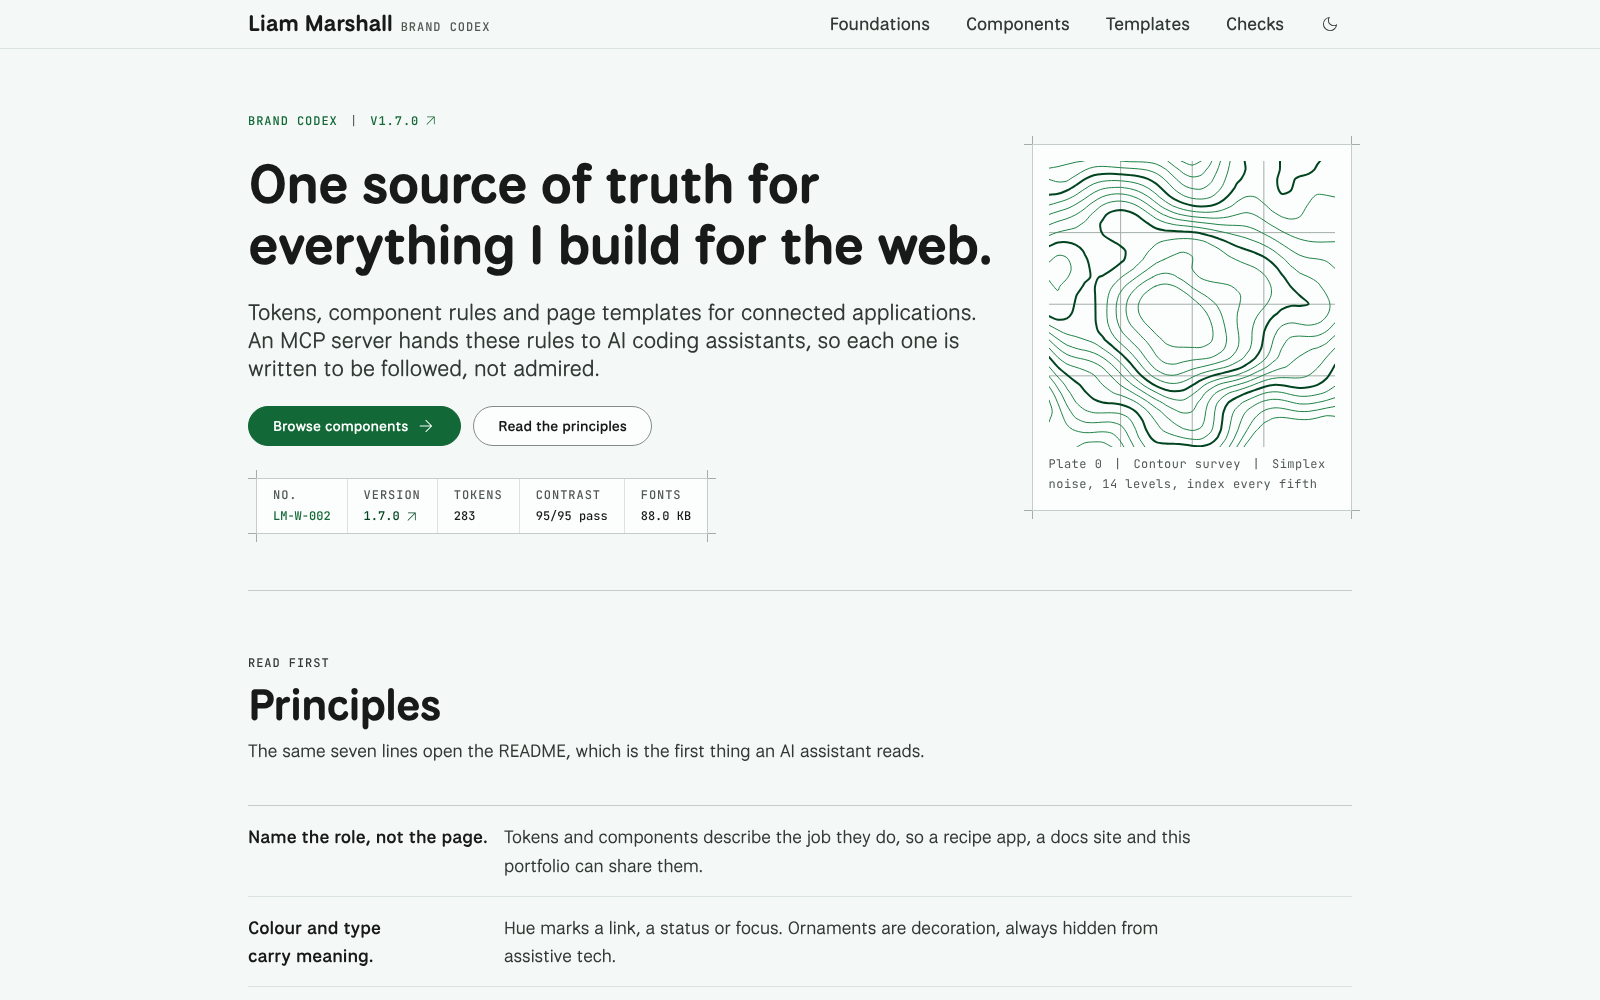
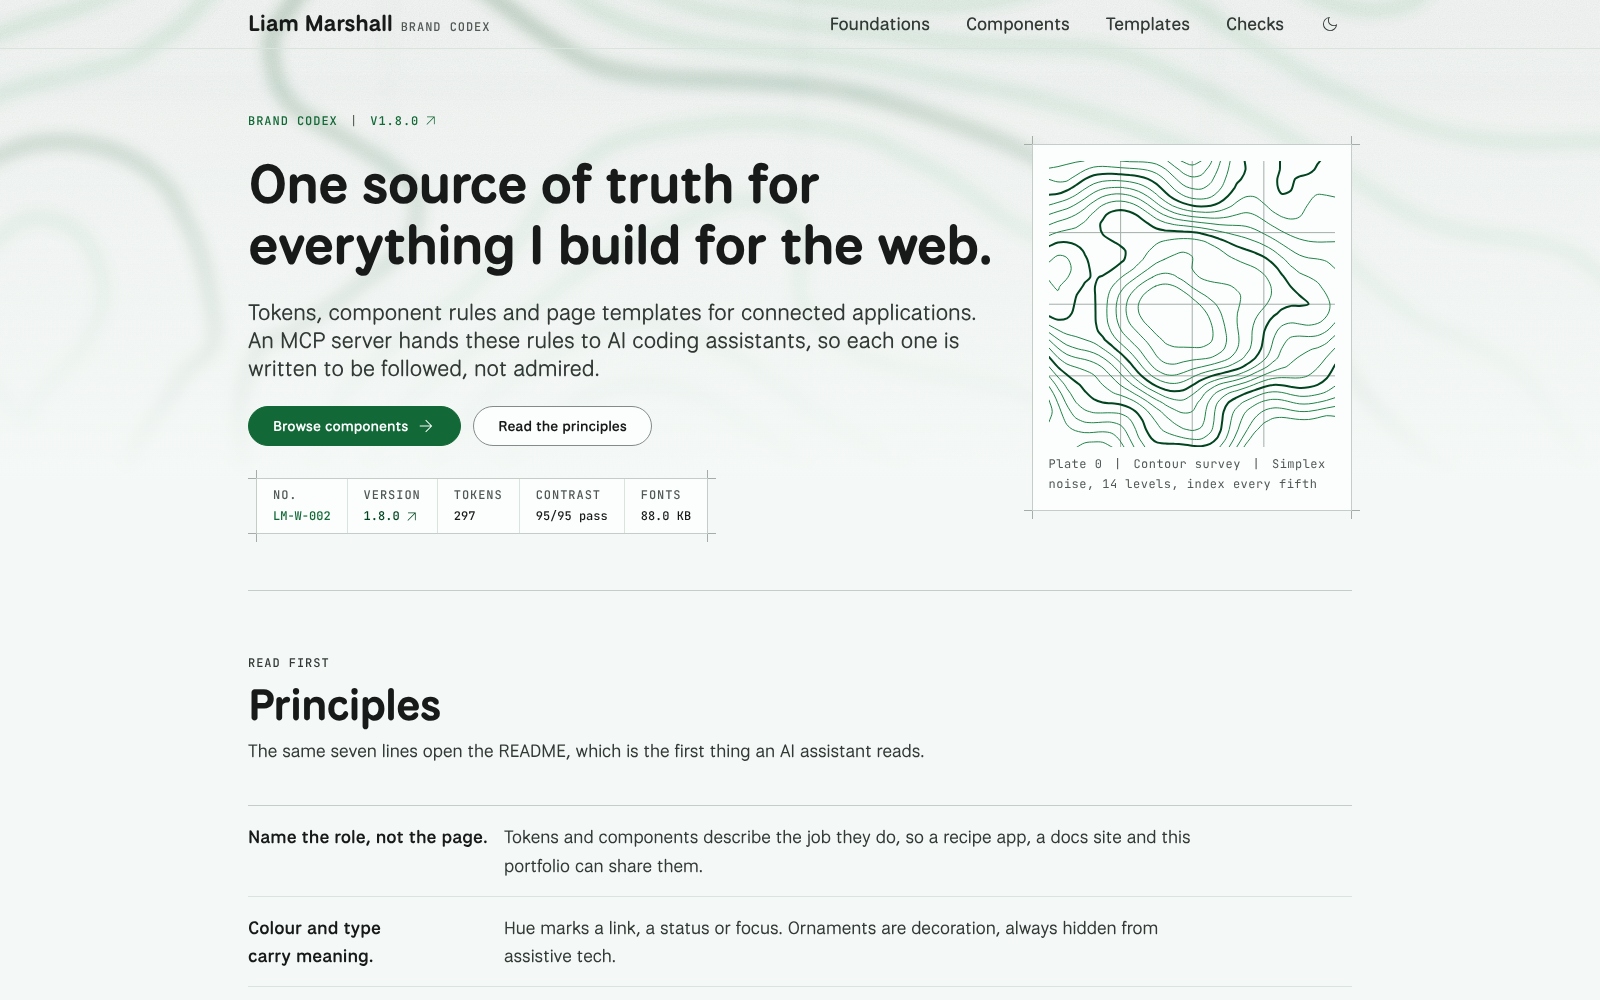
Backdrop on every template, header pause control, refreshed screenshots
- baseof: body.cx-backdrop-page, dist/backdrop.html first in <body>, and
  dist/plate.js on every page to drift it.
- Header: the backdrop pause control between the nav and the theme toggle.
- Home: the statement sits on the frost; the specimen plate is gone.
- Sample content: screenshots retaken on the backdrop, case-study text and
  Lighthouse figures updated.

Pinned to brand-codex 4a7da1a (the 1.8.0 PR) for review; repin to v1.8.0
once it is tagged.

Claude-Session: https://claude.ai/code/session_01Twm6kJNAmEqS7ANipDVSQJ

diff --git a/content/work/aitrien-com/index.md b/content/work/aitrien-com/index.md
@@ -62,7 +62,7 @@ There is no filtering script. Each tag in the filter is a link to its term page,
 |---|---|
 | CSS files in the site repository | 0 |
 | Lighthouse accessibility, home and a post | 100 and 100 |
-| Lighthouse performance on mobile, home and a post | 97 and 99 |
+| Lighthouse performance on mobile, home and a post | 97 and 97 |
 | Requests to other hosts | 0 |
 | Page templates | 6 |
 {caption="Launch checks | Production build, measured before launch"}
